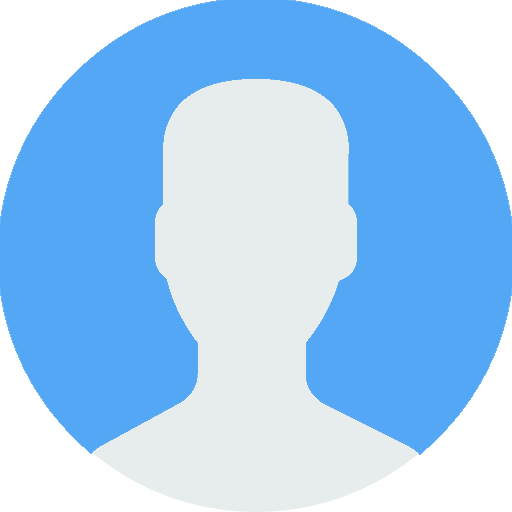
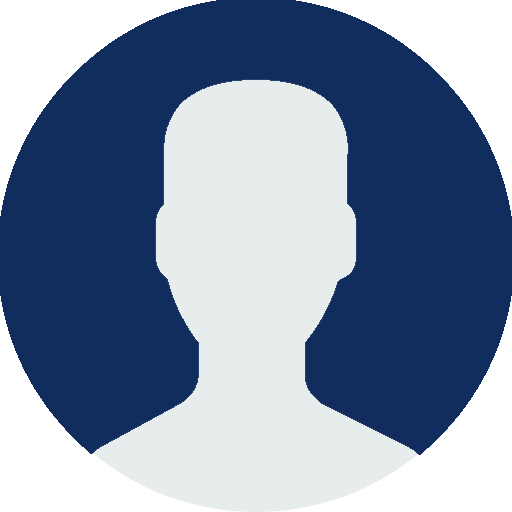
change color and move some elements to better view

diff --git a/src/components/Card.js b/src/components/Card.js
@@ -41,13 +41,11 @@ export default function RecipeReviewCard() {
         <>
             <div className={'flex justify-center items-center m-4'}>
                 <div className="grid grid-cols-1 sm:grid-cols-3 lg:grid-cols-4 gap-8">
-
                     <div>
-
                         <Card sx={{maxWidth: 345}}>
                             <CardHeader
                                 avatar={
-                                    <Avatar sx={{bgcolor: '#53a7f5'}} aria-label="recipe">
+                                    <Avatar sx={{bgcolor: '#bec5d7'}} aria-label="recipe">
                                         R
                                     </Avatar>
                                 }
@@ -120,11 +118,10 @@ export default function RecipeReviewCard() {
                         </Card>
                     </div>
                     <div>
-
                         <Card sx={{maxWidth: 345}}>
                             <CardHeader
                                 avatar={
-                                    <Avatar sx={{bgcolor: '#53a7f5'}} aria-label="recipe">
+                                    <Avatar sx={{bgcolor: '#bec5d7'}} aria-label="recipe">
                                         R
                                     </Avatar>
                                 }
@@ -197,11 +194,10 @@ export default function RecipeReviewCard() {
                         </Card>
                     </div>
                     <div>
-
                         <Card sx={{maxWidth: 345}}>
                             <CardHeader
                                 avatar={
-                                    <Avatar sx={{bgcolor: '#53a7f5'}} aria-label="recipe">
+                                    <Avatar sx={{bgcolor: '#bec5d7'}} aria-label="recipe">
                                         R
                                     </Avatar>
                                 }
@@ -274,11 +270,10 @@ export default function RecipeReviewCard() {
                         </Card>
                     </div>
                     <div>
-
                         <Card sx={{maxWidth: 345}}>
                             <CardHeader
                                 avatar={
-                                    <Avatar sx={{bgcolor: '#53a7f5'}} aria-label="recipe">
+                                    <Avatar sx={{bgcolor: '#bec5d7'}} aria-label="recipe">
                                         R
                                     </Avatar>
                                 }
@@ -351,11 +346,10 @@ export default function RecipeReviewCard() {
                         </Card>
                     </div>
                     <div>
-
                         <Card sx={{maxWidth: 345}}>
                             <CardHeader
                                 avatar={
-                                    <Avatar sx={{bgcolor: '#53a7f5'}} aria-label="recipe">
+                                    <Avatar sx={{bgcolor: '#bec5d7'}} aria-label="recipe">
                                         R
                                     </Avatar>
                                 }
@@ -428,11 +422,10 @@ export default function RecipeReviewCard() {
                         </Card>
                     </div>
                     <div>
-
                         <Card sx={{maxWidth: 345}}>
                             <CardHeader
                                 avatar={
-                                    <Avatar sx={{bgcolor: '#53a7f5'}} aria-label="recipe">
+                                    <Avatar sx={{bgcolor: '#bec5d7'}} aria-label="recipe">
                                         R
                                     </Avatar>
                                 }
@@ -505,11 +498,10 @@ export default function RecipeReviewCard() {
                         </Card>
                     </div>
                     <div>
-
                         <Card sx={{maxWidth: 345}}>
                             <CardHeader
                                 avatar={
-                                    <Avatar sx={{bgcolor: '#53a7f5'}} aria-label="recipe">
+                                    <Avatar sx={{bgcolor: '#bec5d7'}} aria-label="recipe">
                                         R
                                     </Avatar>
                                 }
@@ -582,11 +574,10 @@ export default function RecipeReviewCard() {
                         </Card>
                     </div>
                     <div>
-
                         <Card sx={{maxWidth: 345}}>
                             <CardHeader
                                 avatar={
-                                    <Avatar sx={{bgcolor: '#53a7f5'}} aria-label="recipe">
+                                    <Avatar sx={{bgcolor: '#bec5d7'}} aria-label="recipe">
                                         R
                                     </Avatar>
                                 }
@@ -659,11 +650,10 @@ export default function RecipeReviewCard() {
                         </Card>
                     </div>
                     <div>
-
                         <Card sx={{maxWidth: 345}}>
                             <CardHeader
                                 avatar={
-                                    <Avatar sx={{bgcolor: '#53a7f5'}} aria-label="recipe">
+                                    <Avatar sx={{bgcolor: '#bec5d7'}} aria-label="recipe">
                                         R
                                     </Avatar>
                                 }
@@ -736,11 +726,10 @@ export default function RecipeReviewCard() {
                         </Card>
                     </div>
                     <div>
-
                         <Card sx={{maxWidth: 345}}>
                             <CardHeader
                                 avatar={
-                                    <Avatar sx={{bgcolor: '#53a7f5'}} aria-label="recipe">
+                                    <Avatar sx={{bgcolor: '#bec5d7'}} aria-label="recipe">
                                         R
                                     </Avatar>
                                 }
@@ -813,11 +802,10 @@ export default function RecipeReviewCard() {
                         </Card>
                     </div>
                     <div>
-
                         <Card sx={{maxWidth: 345}}>
                             <CardHeader
                                 avatar={
-                                    <Avatar sx={{bgcolor: '#53a7f5'}} aria-label="recipe">
+                                    <Avatar sx={{bgcolor: '#bec5d7'}} aria-label="recipe">
                                         R
                                     </Avatar>
                                 }
@@ -890,11 +878,10 @@ export default function RecipeReviewCard() {
                         </Card>
                     </div>
                     <div>
-
                         <Card sx={{maxWidth: 345}}>
                             <CardHeader
                                 avatar={
-                                    <Avatar sx={{bgcolor: '#53a7f5'}} aria-label="recipe">
+                                    <Avatar sx={{bgcolor: '#bec5d7'}} aria-label="recipe">
                                         R
                                     </Avatar>
                                 }

diff --git a/src/components/Footer.js b/src/components/Footer.js
@@ -1,27 +1,36 @@
 import React from 'react';
 import Typography from '@mui/material/Typography';
 import Link from '@mui/material/Link';
+import MySVG from "../img/logo-no-background.png";
+import IconButton from "@mui/material/IconButton";
 
 function Footer() {
     return (
         <footer className={'bg-white shadow-2xl shadow-gray-950'} style={{padding: '2rem 0', marginTop: 'auto' }}>
-            <Typography variant="h6" align="center" gutterBottom>
-                Footer
-            </Typography>
-            <Typography variant="subtitle1" align="center" component="p">
-                Este es un pie de página de ejemplo utilizando Material-UI.
+            <div className={'flex justify-center'}>
+            <IconButton
+                size="large"
+                aria-label="menu"
+                sx={{mr: 2}}
+                disabled={true}
+            >
+                <img className="w-40" src={MySVG} alt="My SVG"/>
+            </IconButton>
+            </div>
+             <Typography variant="subtitle1" align="center" component="p">
+                © 2024 Kruger School X. All rights reserved.
             </Typography>
             <Typography variant="body2" color="inherit" align="center">
                 <Link color="inherit" href="#">
-                    Link 1
+                    Home
                 </Link>{' '}
                 {' | '}
                 <Link color="inherit" href="#">
-                    Link 2
+                    My Flats
                 </Link>{' '}
                 {' | '}
                 <Link color="inherit" href="#">
-                    Link 3
+                    Favourites
                 </Link>
             </Typography>
         </footer>

diff --git a/src/components/NavMenu.js b/src/components/NavMenu.js
@@ -13,20 +13,17 @@ function Navbar() {
         <div>
             <AppBar position="static">
                 <Toolbar className={'bg-white'}>
-                    <IconButton
-                        size="large"
-                        edge="start"
-                        aria-label="menu"
-                        sx={{mr: 2}}
-                    >
-                        <img className="w-40" src={MySVG} alt="My SVG"/>
+                    <div className={'flex items-center m-4'}>
+                        <img className="pointer-events-none my-auto w-24 lg:w-40 md:w-32" src={MySVG} alt="My SVG"/>
 
-                    </IconButton>
+                    </div>
                     <Typography variant="h6" component="div" sx={{flexGrow: 1}}>
                     </Typography>
-                    <Button className={'text-secondary'}>Home</Button>
-                    <Button className={'text-secondary'}>My Flats</Button>
-                    <Button className={'text-secondary'}>Favourites</Button>
+                    <div className={'flex items-center justify-center mr-2'}>
+                        <Button className={'text-secondary'}>Home</Button>
+                        <Button className={'text-secondary'}>My Flats</Button>
+                        <Button className={'text-secondary'}>Favourites</Button>
+                    </div>
                     <UserInfoDropdown/>
                 </Toolbar>
             </AppBar>

diff --git a/tailwind.config.js b/tailwind.config.js
@@ -6,8 +6,8 @@ module.exports = {
       colors: {
         primary: '#6bb2f3',
         primaryHover: '#53a7f5',
-        secondaryHover: '#00114d',
-        secondary: '#122375',
+        secondaryHover: '#0d234b',
+        secondary: '#102d5e',
         errorHover: '#c53254',
         error: '#c74563',
         warning: '#F6E05E',
